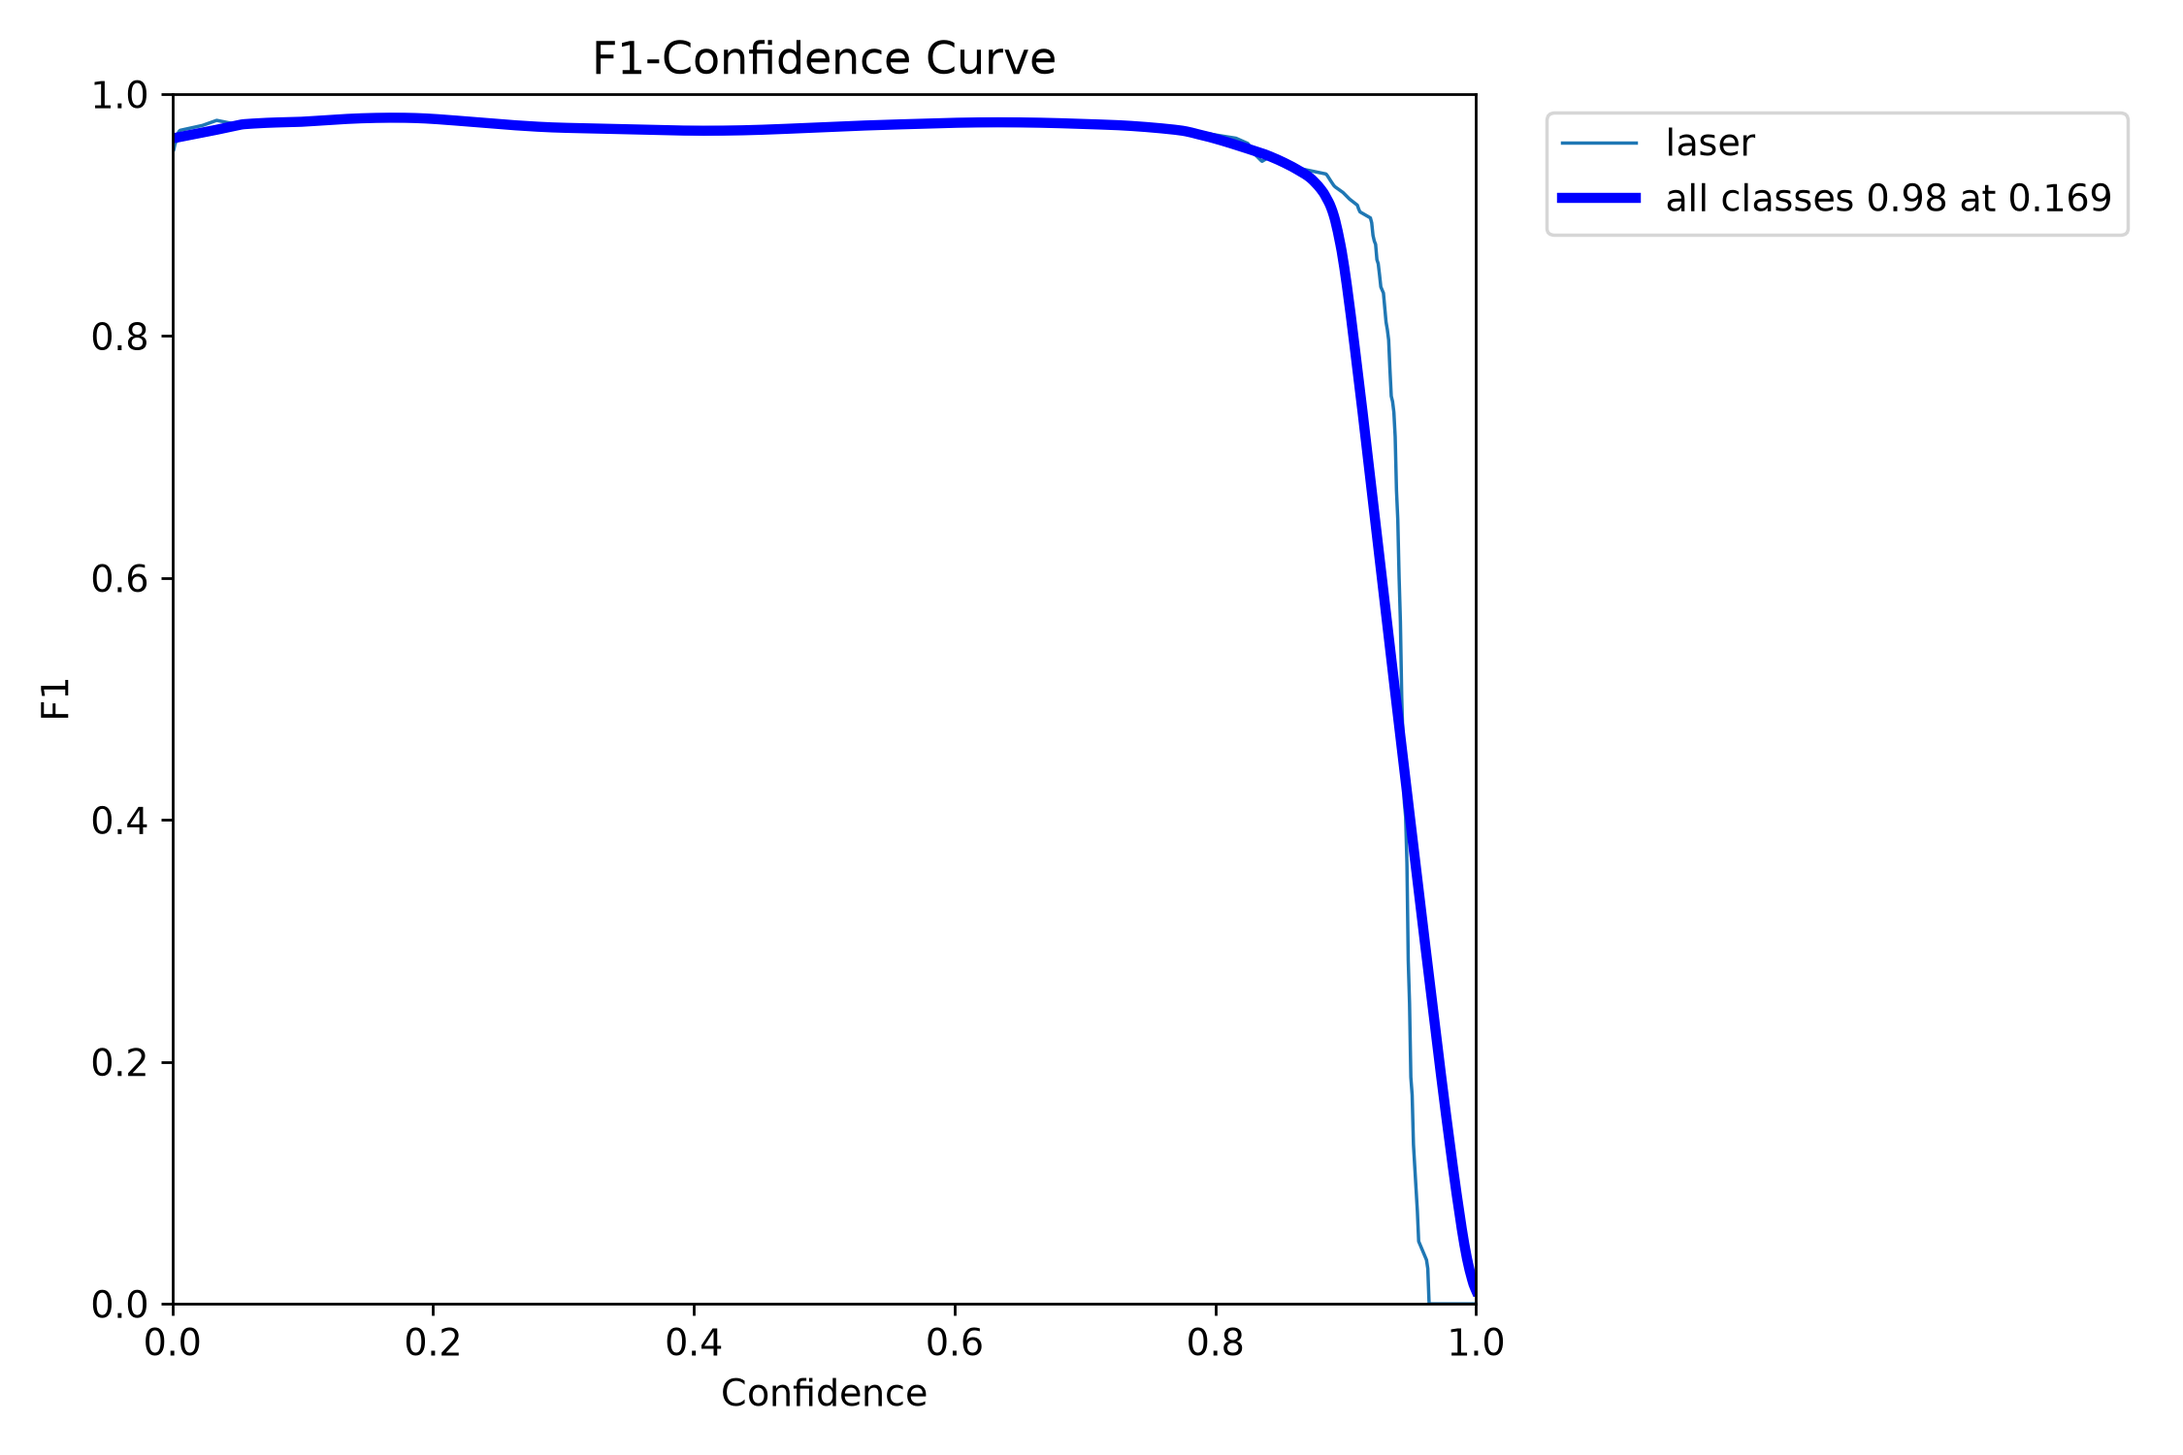
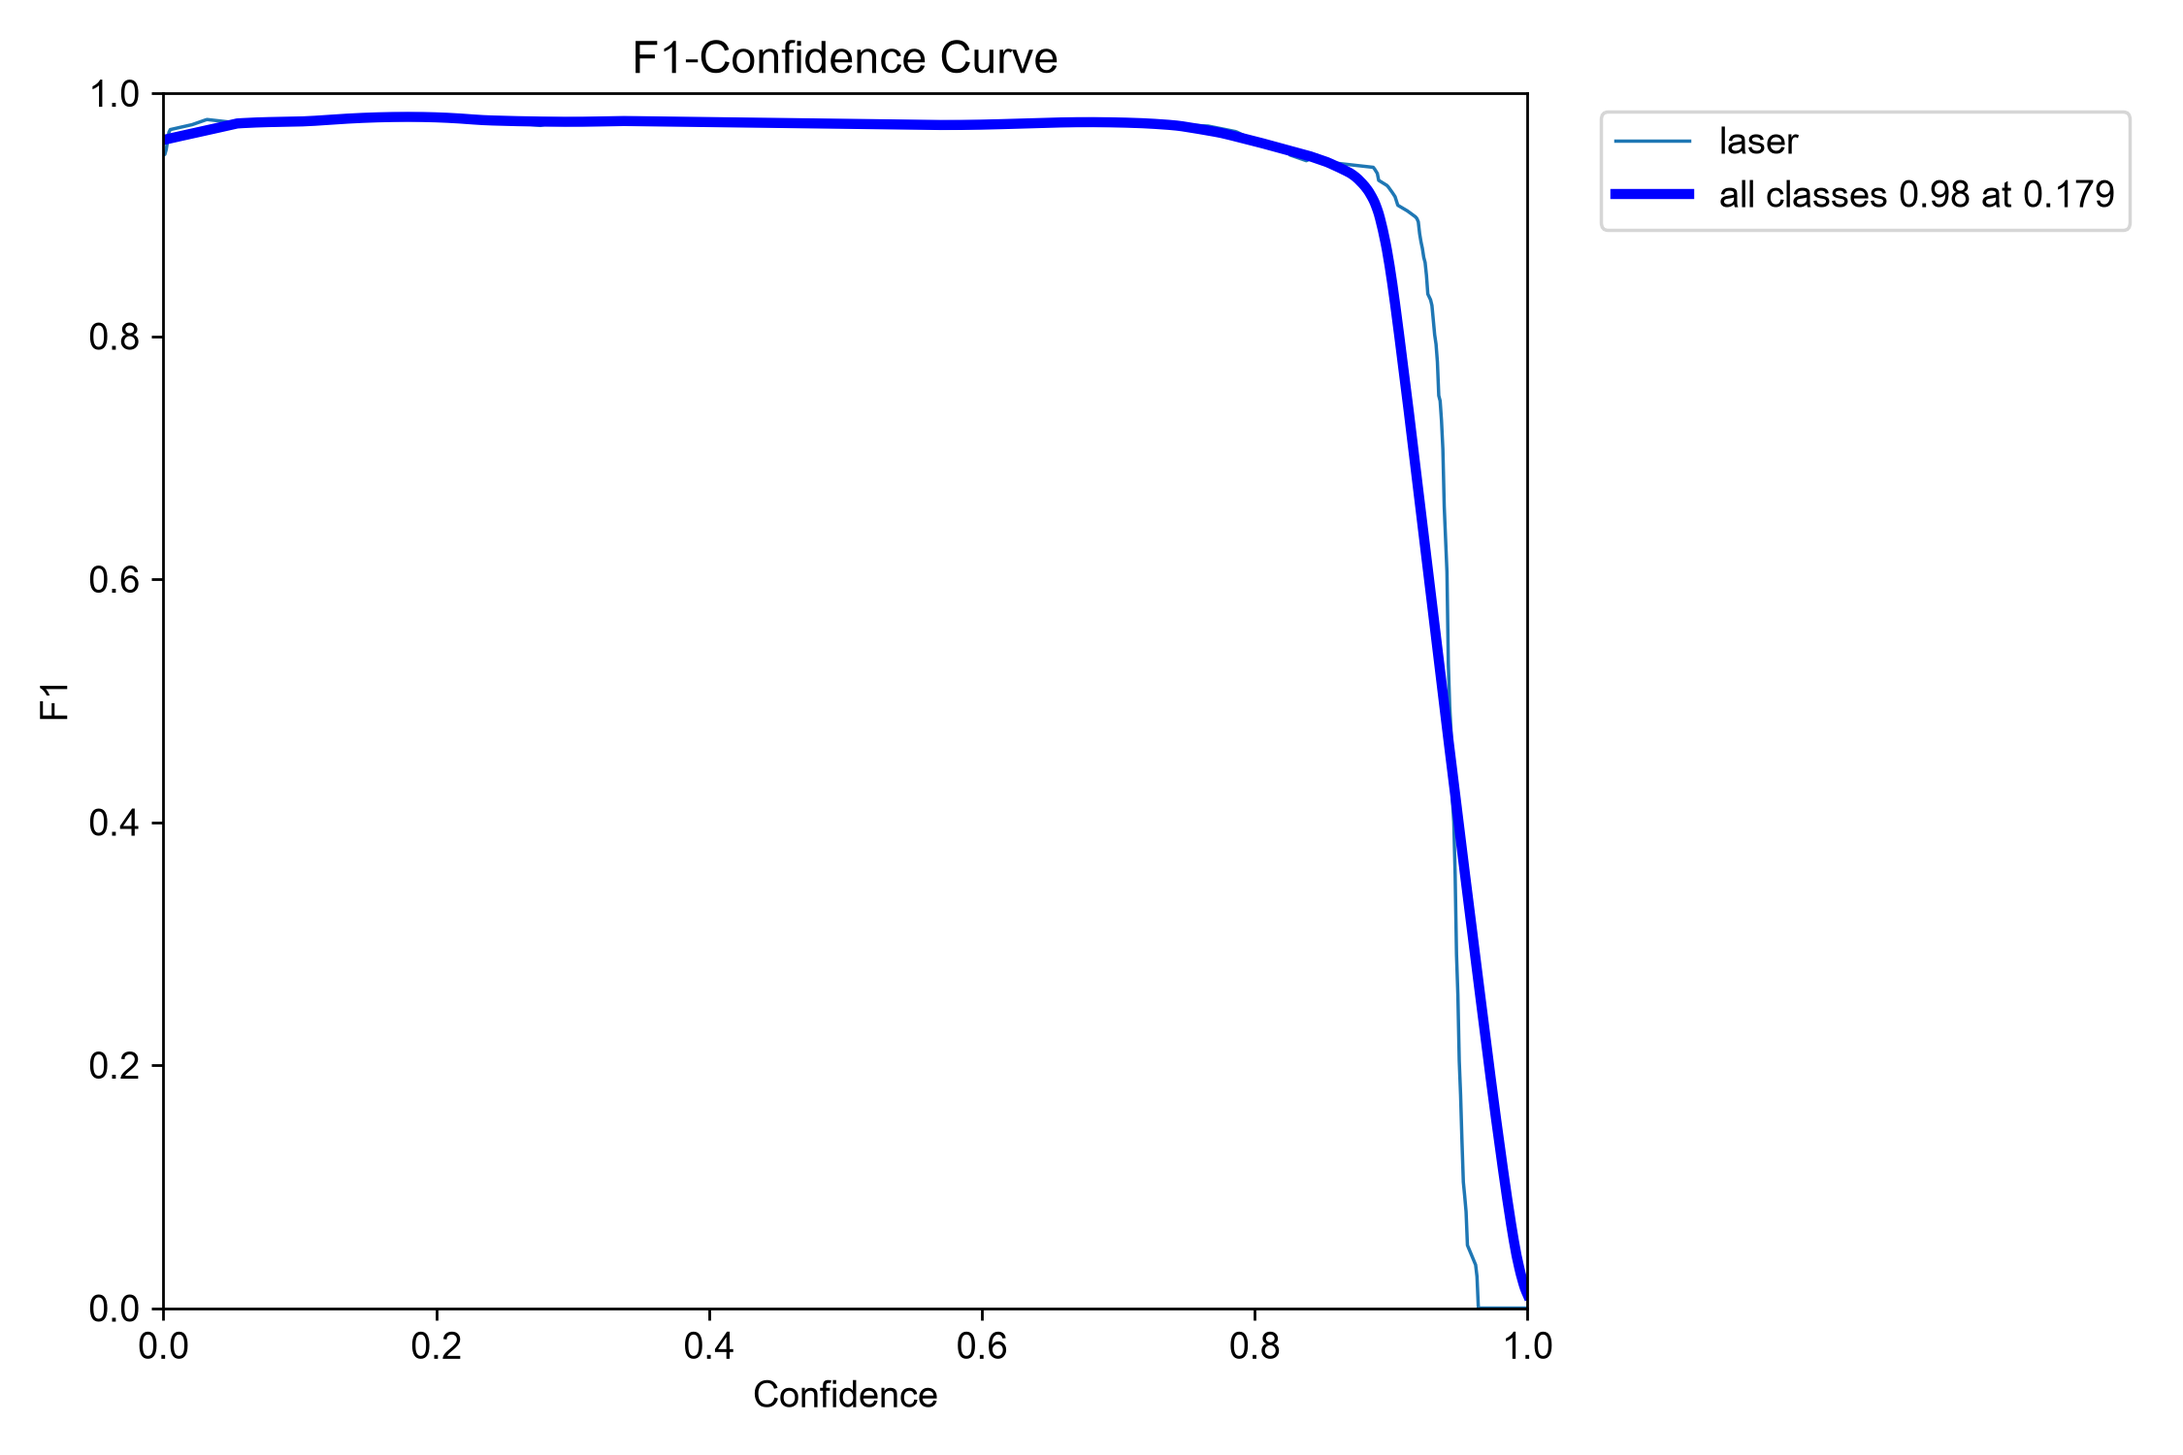
Run on Apple Silicon and add live detection (main.py, detect.py)
- src/device.py picks CUDA, then Apple GPU (mps), then CPU for train/evaluate
- detect.py: webcam / RTSP / video / image detection with the released models
- main.py: runs models/model.pt with the detect settings from params.yaml,
  so the laser is chosen by the DVC pipeline (dataset param or branch)
- red default confidence 0.80 to cut false alarms on webcam scenes
- dvc.lock and metrics from a dvc repro on an M4 (mps)

diff --git a/detect.py b/detect.py
@@ -1,0 +1,194 @@
+"""Live laser-dot detection from a webcam, RTSP stream, video file or image.
+
+Runs the DVC-tracked YOLO26n models on this machine (Apple GPU via MPS when available).
+
+Examples:
+    python detect.py                                   # built-in webcam, green model
+    python detect.py --laser red                       # red model
+    python detect.py --laser both                      # run red and green models together
+    python detect.py --source 1                        # another camera (e.g. iPhone Continuity Camera)
+    python detect.py --source rtsp://user:pass@192.168.1.20:554/stream1
+    python detect.py --source clip.mp4 --save out.mp4
+    python detect.py --source data/raw/green/test/images/<frame>.jpg
+
+Keys in the window: q / Esc quits, s saves a snapshot.
+"""
+
+import argparse
+import sys
+import threading
+import time
+from pathlib import Path
+
+import cv2
+
+sys.path.insert(0, str(Path(__file__).parent / "src"))
+from device import best_device  # noqa: E402
+
+MODELS = {"red": "models/released/red_yolo26n.pt", "green": "models/released/green_yolo26n.pt"}
+# Default confidence per laser. Red gives false alarms on webcam scenes at 0.25; at 0.80 the
+# red test set has 0 false alarms and 8/113 misses (vs 1 and 3 at 0.25).
+CONF = {"red": 0.80, "green": 0.25}
+COLORS = {"red": (0, 0, 255), "green": (0, 255, 0)}  # BGR
+IMAGE_EXT = {".jpg", ".jpeg", ".png", ".bmp", ".webp"}
+
+
+class LatestFrame:
+    """Reads a live stream on a background thread and keeps only the newest frame,
+    so slow inference never builds up lag on RTSP / webcam sources."""
+
+    def __init__(self, cap):
+        self.cap, self.frame, self.ok = cap, None, True
+        self.lock = threading.Lock()
+        threading.Thread(target=self._run, daemon=True).start()
+
+    def _run(self):
+        while self.ok:
+            ok, frame = self.cap.read()
+            with self.lock:
+                self.ok, self.frame = ok, frame if ok else self.frame
+
+    def read(self):
+        with self.lock:
+            return self.ok, None if self.frame is None else self.frame.copy()
+
+
+def open_source(source):
+    if source.isdigit():
+        # AVFoundation is the native macOS camera backend
+        backend = cv2.CAP_AVFOUNDATION if sys.platform == "darwin" else cv2.CAP_ANY
+        cap = cv2.VideoCapture(int(source), backend)
+        cap.set(cv2.CAP_PROP_FRAME_WIDTH, 1920)
+        cap.set(cv2.CAP_PROP_FRAME_HEIGHT, 1080)
+        return cap, True
+    if source.lower().startswith(("rtsp://", "rtmp://", "http://", "https://")):
+        cap = cv2.VideoCapture(source, cv2.CAP_FFMPEG)
+        cap.set(cv2.CAP_PROP_BUFFERSIZE, 1)
+        return cap, True
+    return cv2.VideoCapture(source), False  # video file: read every frame
+
+
+def detect(models, frame, args):
+    """Returns [(laser, conf, x1, y1, x2, y2), ...] for every model."""
+    found = []
+    for laser, model in models.items():
+        r = model.predict(frame, conf=args.conf or CONF[laser], imgsz=args.imgsz, device=args.device, verbose=False)[0]
+        for box, conf in zip(r.boxes.xyxy.tolist(), r.boxes.conf.tolist()):
+            found.append((laser, conf, *map(int, box)))
+    return found
+
+
+def draw(frame, found, fps=None):
+    for laser, conf, x1, y1, x2, y2 in found:
+        cx, cy = (x1 + x2) // 2, (y1 + y2) // 2
+        color = COLORS[laser]
+        cv2.rectangle(frame, (x1 - 6, y1 - 6), (x2 + 6, y2 + 6), color, 2)
+        cv2.circle(frame, (cx, cy), 18, color, 1)
+        cv2.putText(frame, f"{laser} {conf:.2f} ({cx},{cy})", (x1, max(y1 - 12, 20)),
+                    cv2.FONT_HERSHEY_SIMPLEX, 0.6, color, 2)
+    status = f"LASER x{len(found)}" if found else "no laser"
+    if fps is not None:
+        status += f"  |  {fps:.1f} FPS"
+    cv2.putText(frame, status, (12, 32), cv2.FONT_HERSHEY_SIMPLEX, 0.9, (255, 255, 255), 3)
+    cv2.putText(frame, status, (12, 32), cv2.FONT_HERSHEY_SIMPLEX, 0.9, (0, 0, 0), 1)
+    return frame
+
+
+def run_image(models, args):
+    frame = cv2.imread(args.source)
+    found = detect(models, frame, args)
+    for d in found:
+        print(f"{d[0]} conf={d[1]:.2f} box=({d[2]},{d[3]},{d[4]},{d[5]})")
+    print(f"{len(found)} laser(s) found")
+    out = draw(frame, found)
+    if args.save:
+        cv2.imwrite(args.save, out)
+    if not args.no_show:
+        cv2.imshow("laser detector", out)
+        cv2.waitKey(0)
+
+
+def run_stream(models, args):
+    cap, live = open_source(args.source)
+    if not cap.isOpened():
+        sys.exit(f"Could not open source {args.source!r}. For the webcam on macOS, allow camera access for "
+                 "your terminal app in System Settings > Privacy & Security > Camera.")
+    reader = LatestFrame(cap) if live else None
+    writer, fps, last, last_print = None, 0.0, time.time(), 0.0
+
+    while True:
+        ok, frame = reader.read() if reader else cap.read()
+        if not ok:
+            break
+        if frame is None:  # live stream has not delivered its first frame yet
+            time.sleep(0.01)
+            continue
+
+        found = detect(models, frame, args)
+        now = time.time()
+        fps = 0.9 * fps + 0.1 / max(now - last, 1e-6) if fps else 1 / max(now - last, 1e-6)
+        last = now
+
+        if found and now - last_print > 0.5:  # print at most twice a second
+            best = max(found, key=lambda d: d[1])
+            print(f"[{time.strftime('%H:%M:%S')}] {best[0]} laser at "
+                  f"({(best[2] + best[4]) // 2},{(best[3] + best[5]) // 2}) conf={best[1]:.2f}")
+            last_print = now
+
+        out = draw(frame, found, fps)
+        if args.save:
+            if writer is None:
+                h, w = out.shape[:2]
+                writer = cv2.VideoWriter(args.save, cv2.VideoWriter_fourcc(*"mp4v"), 20, (w, h))
+            writer.write(out)
+        if not args.no_show:
+            cv2.imshow("laser detector", out)
+            key = cv2.waitKey(1) & 0xFF
+            if key in (ord("q"), 27):
+                break
+            if key == ord("s"):
+                name = f"snapshot_{time.strftime('%Y%m%d_%H%M%S')}.jpg"
+                cv2.imwrite(name, out)
+                print(f"saved {name}")
+
+    if reader:
+        reader.ok = False
+    cap.release()
+    if writer:
+        writer.release()
+    cv2.destroyAllWindows()
+
+
+def main():
+    p = argparse.ArgumentParser(description=__doc__, formatter_class=argparse.RawDescriptionHelpFormatter)
+    p.add_argument("--source", default="0", help="camera index, rtsp:// URL, video file or image (default 0)")
+    p.add_argument("--laser", choices=["green", "red", "both"], default="green")
+    p.add_argument("--conf", type=float, default=None,
+                   help="confidence threshold for every model (default: red 0.80, green 0.25)")
+    p.add_argument("--imgsz", type=int, default=1280,
+                   help="inference size; the models were trained at 1280. 960/640 is faster but misses small dots")
+    p.add_argument("--device", default=None, help="mps | cpu | 0 (default: best available)")
+    p.add_argument("--save", help="write the annotated output to this file")
+    p.add_argument("--no-show", action="store_true", help="do not open a window")
+    args = p.parse_args()
+    args.device = args.device or best_device()
+
+    from ultralytics import YOLO
+    lasers = ["red", "green"] if args.laser == "both" else [args.laser]
+    models = {}
+    for laser in lasers:
+        path = Path(__file__).parent / MODELS[laser]
+        if not path.exists():
+            sys.exit(f"{path} is missing - run `dvc pull` first.")
+        models[laser] = YOLO(str(path))
+    confs = ", ".join(f"{l} {args.conf or CONF[l]:.2f}" for l in lasers)
+    print(f"models: {', '.join(lasers)} | conf: {confs} | device: {args.device} | imgsz: {args.imgsz} | source: {args.source}")
+
+    if Path(args.source).suffix.lower() in IMAGE_EXT:
+        run_image(models, args)
+    else:
+        run_stream(models, args)
+
+
+if __name__ == "__main__":
+    main()

diff --git a/main.py b/main.py
@@ -1,0 +1,64 @@
+"""Live laser detection with the model the DVC pipeline produced (models/model.pt).
+
+Which laser is decided by DVC, not by a flag:
+    params.yaml `dataset: red | green`  ->  dvc repro  ->  models/model.pt
+or switch branches (each branch's dvc.lock points at its own model in the DVC cache):
+    git checkout green && dvc checkout
+    git checkout main  && dvc checkout      # main = red
+
+Then always just:
+    python main.py
+    python main.py --source "rtsp://user:pass@192.168.1.20:554/stream1"   # optional override
+
+Settings (source, imgsz, per-laser conf) live in the `detect:` section of params.yaml.
+"""
+
+import argparse
+import sys
+from pathlib import Path
+
+import yaml
+
+ROOT = Path(__file__).parent
+sys.path.insert(0, str(ROOT / "src"))
+import detect  # noqa: E402
+from device import best_device  # noqa: E402
+
+
+def laser_of_model():
+    """The dataset models/model.pt was built from, according to dvc.lock."""
+    lock = yaml.safe_load(open(ROOT / "dvc.lock"))
+    return lock["stages"]["train"]["params"]["params.yaml"]["dataset"]
+
+
+def main():
+    params = yaml.safe_load(open(ROOT / "params.yaml"))
+    d = params["detect"]
+    p = argparse.ArgumentParser(description=__doc__, formatter_class=argparse.RawDescriptionHelpFormatter)
+    p.add_argument("--source", default=str(d["source"]), help=f"override detect.source (now {d['source']})")
+    p.add_argument("--save", help="write the annotated output to this file")
+    p.add_argument("--no-show", action="store_true", help="do not open a window")
+    args = p.parse_args()
+
+    laser, built = params["dataset"], laser_of_model()
+    if laser != built:
+        sys.exit(f"params.yaml says dataset: {laser}, but models/model.pt was built for {built}.\n"
+                 f"Run `dvc repro` to rebuild it (or `dvc checkout` after switching branches).")
+    model_path = ROOT / "models/model.pt"
+    if not model_path.exists():
+        sys.exit("models/model.pt is missing - run `dvc pull` (or `dvc checkout`).")
+
+    from ultralytics import YOLO
+    args.conf, args.imgsz, args.device = d["conf"][laser], d["imgsz"], best_device()
+    models = {laser: YOLO(str(model_path))}
+    print(f"model: models/model.pt ({laser}) | conf: {args.conf} | device: {args.device} | "
+          f"imgsz: {args.imgsz} | source: {args.source}")
+
+    if Path(args.source).suffix.lower() in detect.IMAGE_EXT:
+        detect.run_image(models, args)
+    else:
+        detect.run_stream(models, args)
+
+
+if __name__ == "__main__":
+    main()

diff --git a/src/evaluate.py b/src/evaluate.py
@@ -18,6 +18,8 @@ import numpy as np
 import yaml
 from ultralytics import YOLO
 
+from device import best_device
+
 PLOTS = ("BoxPR_curve.png", "BoxF1_curve.png", "confusion_matrix_normalized.png")
 
 
@@ -26,11 +28,12 @@ def main():
     e = params["evaluate"]
     data = "data/prepared/data.yaml"
     model = YOLO("models/model.pt")
+    device = best_device()
     run_dir = Path("runs").resolve()
 
     metrics = {"dataset": params["dataset"], "model_source": params["train"]["mode"]}
     for split in ("test", "val"):
-        v = model.val(data=data, split=split, imgsz=e["imgsz"], batch=e["batch"], device=0,
+        v = model.val(data=data, split=split, imgsz=e["imgsz"], batch=e["batch"], device=device,
                       plots=True, project=str(run_dir), name=f"eval_{split}", exist_ok=True, verbose=False)
         metrics["valid" if split == "val" else "test"] = {
             "precision": round(float(v.box.mp), 4), "recall": round(float(v.box.mr), 4),
@@ -43,7 +46,7 @@ def main():
     pred = []
     for i in range(0, len(files), 32):
         pred += [len(r.boxes) > 0 for r in model.predict([str(f) for f in files[i:i + 32]], conf=e["conf"],
-                                                          imgsz=e["imgsz"], device=0, verbose=False)]
+                                                          imgsz=e["imgsz"], device=device, verbose=False)]
     pred = np.array(pred)
     metrics["test_image_level"] = {
         "accuracy": round(float((truth == pred).mean()), 4), "images": len(files),

diff --git a/src/train.py b/src/train.py
@@ -30,10 +30,11 @@ def main():
         raise ValueError(f"train.mode must be 'released' or 'train', got {t['mode']!r}")
 
     from ultralytics import YOLO
+    from device import best_device
     run_dir = Path("runs").resolve()
     YOLO(t["base_model"]).train(
         data="data/prepared/data.yaml", imgsz=t["imgsz"], epochs=t["epochs"], batch=t["batch"],
-        seed=t["seed"], deterministic=True, device=0, workers=2,
+        seed=t["seed"], deterministic=True, device=best_device(), workers=2,
         project=str(run_dir), name="train", exist_ok=True,
         # same augmentation as the earlier project
         fliplr=0.5, flipud=0.5, degrees=10, scale=0.3, hsv_h=0.01, hsv_s=0.5, hsv_v=0.4,

diff --git a/src/device.py b/src/device.py
@@ -1,0 +1,11 @@
+"""Pick the compute device: NVIDIA GPU (0), Apple Silicon GPU ("mps"), or "cpu"."""
+
+import torch
+
+
+def best_device():
+    if torch.cuda.is_available():
+        return 0
+    if torch.backends.mps.is_available():
+        return "mps"
+    return "cpu"

diff --git a/README.md b/README.md
@@ -131,6 +131,40 @@ dvc remote modify origin --local password <dagshub-token>
 
 (`--local` writes to `.dvc/config.local`, which is never committed.)
 
+### On a Mac (Apple Silicon)
+
+The pipeline and the live detector pick the device automatically (`src/device.py`):
+NVIDIA GPU → Apple GPU (`mps`) → CPU. `dvc repro` with `train.mode: released` runs in
+about 30 s on an M4 and reproduces the numbers below.
+
+```bash
+uv venv --python 3.12 .venv && source .venv/bin/activate
+uv pip install torch torchvision -r requirements.txt
+# python.org Python ships without CA certificates; without this dvc pull fails with
+# CERTIFICATE_VERIFY_FAILED (or run "Install Certificates.command" once instead)
+export SSL_CERT_FILE="$(python -c 'import certifi; print(certifi.where())')"
+dvc pull
+```
+
+### Live detection (`detect.py`)
+
+Runs the released models on a webcam, RTSP stream, video file or image, on this machine:
+
+```bash
+python detect.py                                  # built-in webcam, green model
+python detect.py --laser red                      # red model (or --laser both)
+python detect.py --source 1                       # another camera, e.g. iPhone Continuity Camera
+python detect.py --source "rtsp://user:pass@192.168.1.20:554/stream1"
+python detect.py --source clip.mp4 --save out.mp4
+python detect.py --source data/raw/green/test/images/<frame>.jpg
+```
+
+Keys: `q`/Esc quit, `s` save a snapshot. `--conf` sets the threshold (default red 0.80 —
+fewer false alarms on webcam scenes, 8/113 test misses instead of 3 — and green 0.25), `--imgsz` the input size (default 1280, as trained; 960/640 is faster but
+misses small dots). On an M4 the green model runs at ~48 FPS at 1280 px. The first webcam
+run asks macOS for camera permission for your terminal app (System Settings → Privacy &
+Security → Camera).
+
 ## 6. Results
 
 Test sets are hand-labelled frames the models never trained on.
